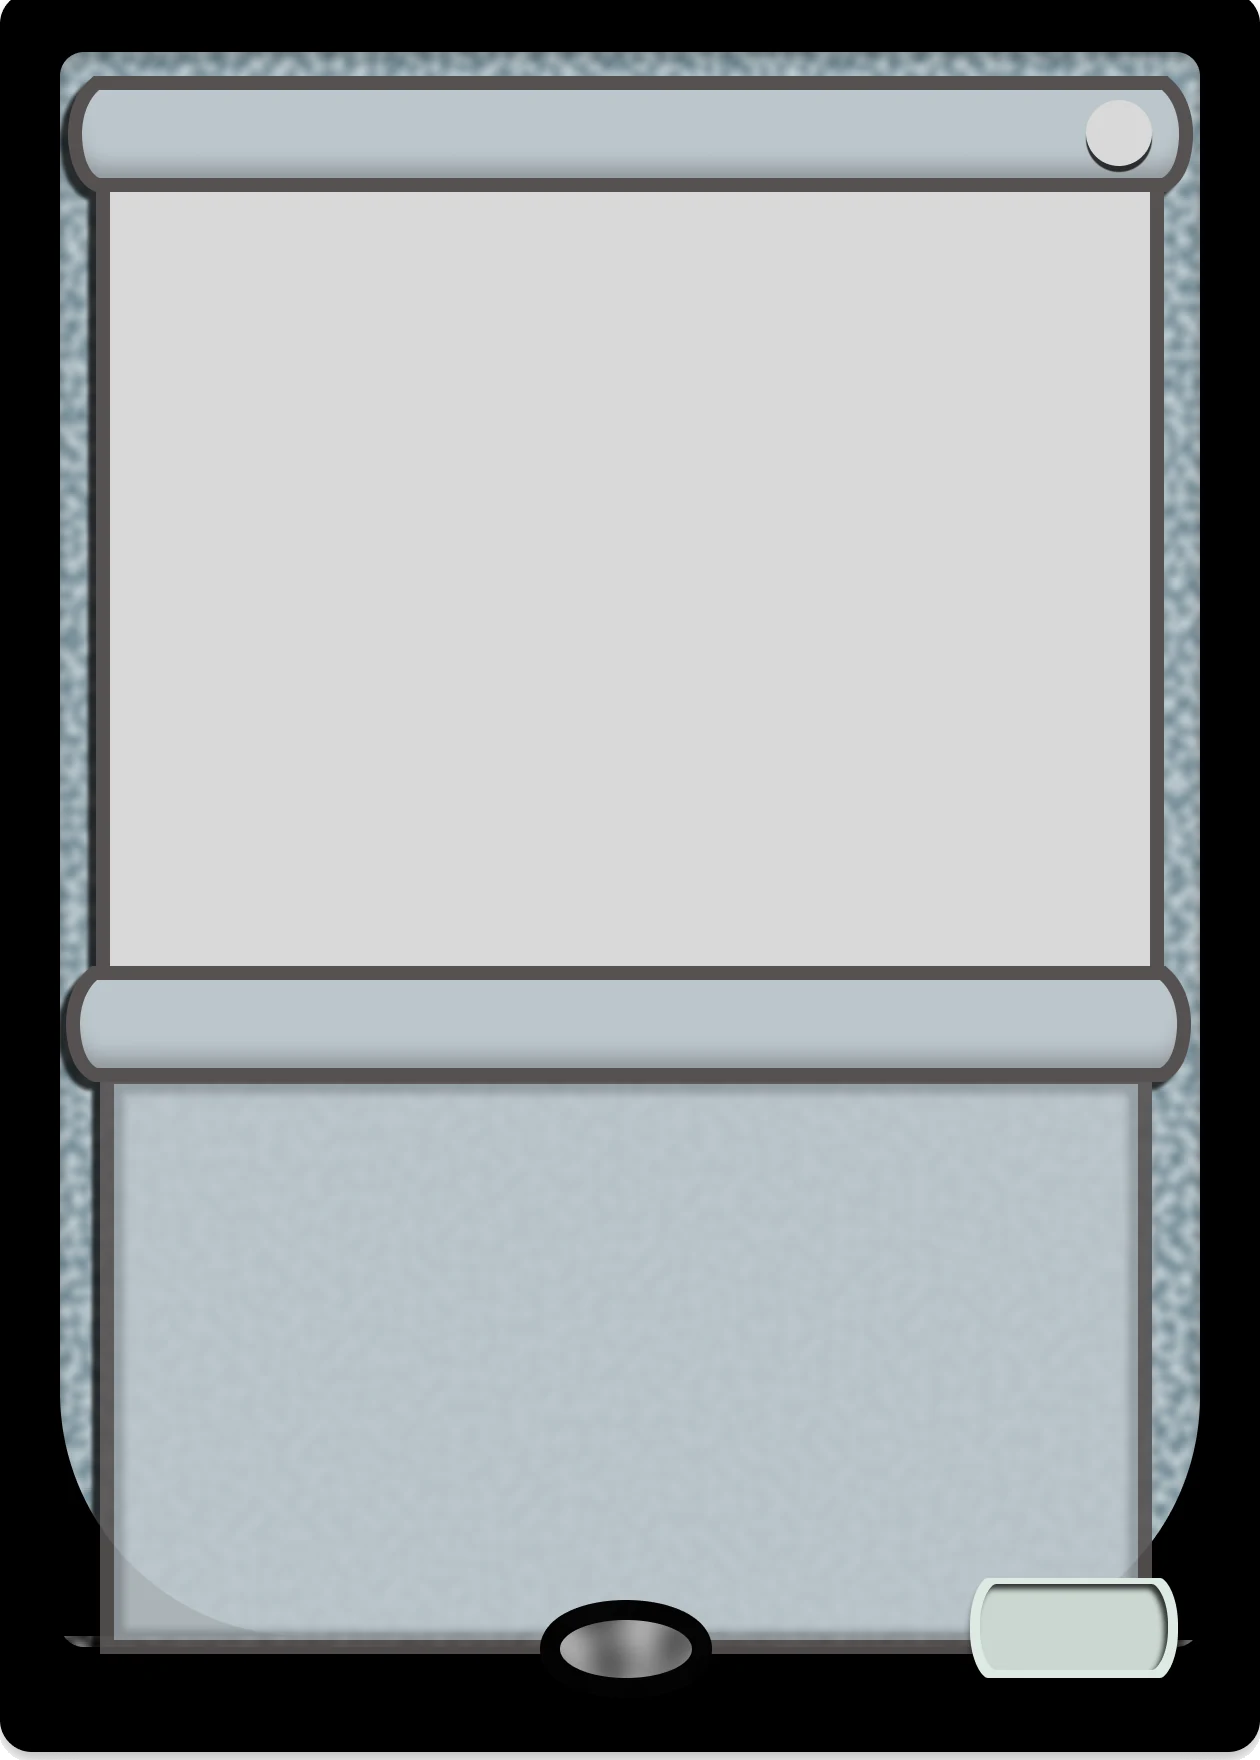
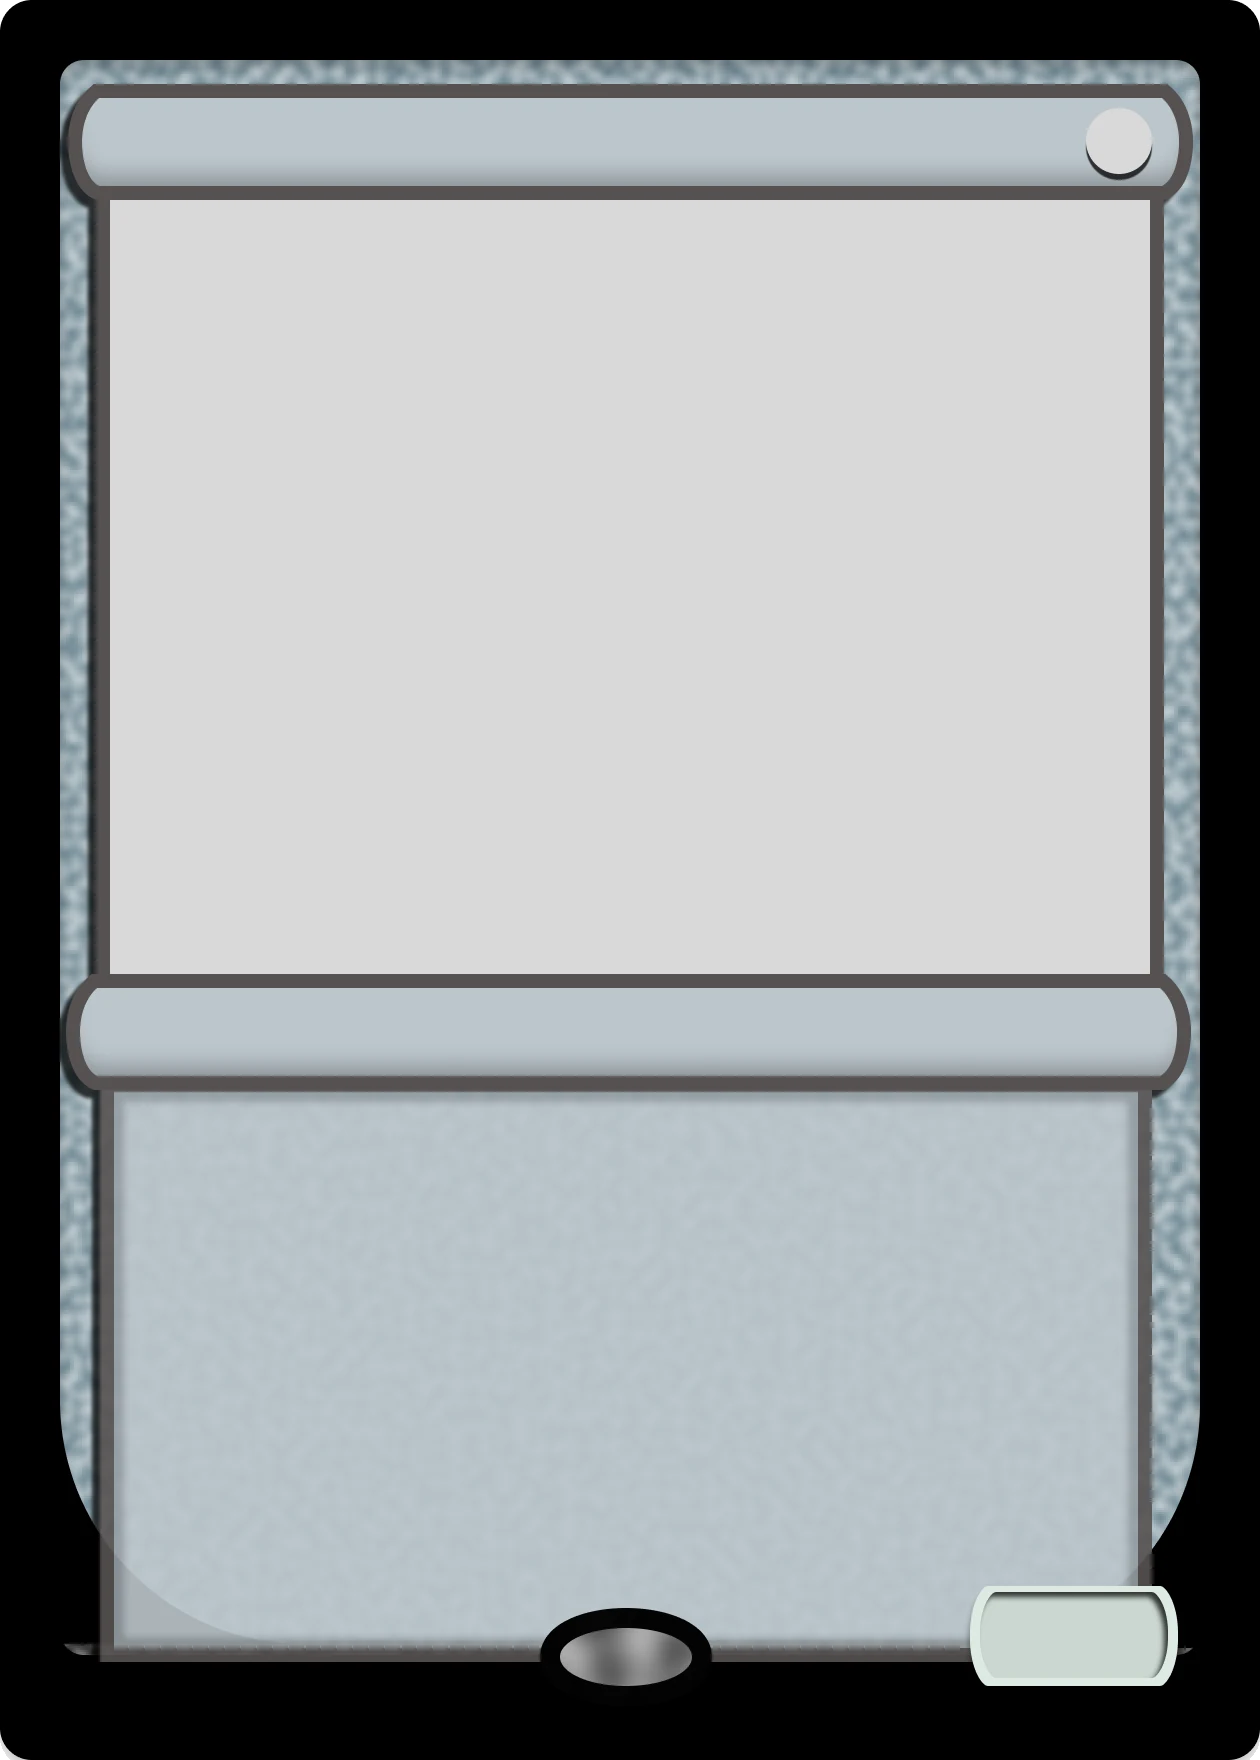
MTG frame: crop the frame image at the exact card bounds (no white edge), smaller ATK
Claude-Session: https://claude.ai/code/session_01P2VDzpyWFsYvAuZKcLX5At

diff --git a/index.html b/index.html
@@ -997,7 +997,7 @@ div.f{display:flex;flex-direction:column;gap:4px;font-weight:700;font-size:13px}
 .card.mtg .c-text .fx{color:#000}
 .card.mtg .c-text .flv{font-family:"Shippori Mincho",serif;font-style:normal;font-weight:400;border-top:none;padding-top:0;font-size:calc(var(--mu)*20*var(--tk,1));line-height:calc(var(--mu)*25.88);letter-spacing:-.1em;color:#000;margin:auto 0 calc(var(--mu)*44)}
 .card.mtg .c-text.ha .flv{margin-bottom:calc(var(--mu)*44)}
-.card.mtg .c-atk{left:calc(var(--mu)*421);top:calc(var(--mu)*240);right:auto;bottom:auto;width:calc(var(--mu)*104);height:calc(var(--mu)*50);padding:0;border:none;border-radius:0;background:none;box-shadow:none;display:grid;place-items:center;font-family:"Shippori Mincho","Shippori Mincho B1",serif;font-weight:700;font-size:calc(var(--mu)*48);line-height:1;color:#000;z-index:4;white-space:nowrap;letter-spacing:0}
+.card.mtg .c-atk{left:calc(var(--mu)*421);top:calc(var(--mu)*240);right:auto;bottom:auto;width:calc(var(--mu)*104);height:calc(var(--mu)*50);padding:0;border:none;border-radius:0;background:none;box-shadow:none;display:grid;place-items:center;font-family:"Shippori Mincho","Shippori Mincho B1",serif;font-weight:700;font-size:calc(var(--mu)*40);line-height:1;color:#000;z-index:4;white-space:nowrap;letter-spacing:-.02em}
 .card.mtg .c-lim{position:absolute;left:calc(var(--mu)*-46);bottom:calc(var(--mu)*-52);color:#8a8f93;font-size:calc(var(--mu)*16);z-index:4}
 .card.mtg .m-gem{display:none}.card .m-gem{display:none}
 .card.mtg[class*="foil-"] .c-name{background:none!important;color:#000!important;-webkit-text-fill-color:currentColor;filter:none}
@@ -1013,7 +1013,7 @@ div.f{display:flex;flex-direction:column;gap:4px;font-weight:700;font-size:13px}
 .card.editor.mtg .c-name input{text-align:left;font-size:calc(var(--mu)*32*var(--nk,1));letter-spacing:-.1em;background:transparent;border:none;width:100%;font-family:inherit;font-weight:700;color:#000;padding:0}
 .card.editor.mtg .c-text{min-height:0;display:flex;flex-direction:column;gap:4px;padding-top:calc(var(--mu)*14)}
 .card.editor.mtg textarea{height:auto;flex:1;background:transparent;font-size:calc(var(--mu)*22);letter-spacing:-.1em;font-family:inherit;color:#000}
-.card.editor.mtg .c-atk{font-size:0}.card.editor.mtg .c-atk input{font-size:calc(var(--mu)*44);width:100%;text-align:center;background:transparent;font-family:"Shippori Mincho",serif;font-weight:700;color:#000}
+.card.editor.mtg .c-atk{font-size:0}.card.editor.mtg .c-atk input{font-size:calc(var(--mu)*40);width:100%;text-align:center;background:transparent;font-family:"Shippori Mincho",serif;font-weight:700;color:#000}
 /* ---- 同梱フォント（fonts/ ・JIS第1・第2水準に減らしたWOFF2）: ロゴたいぷゴシック（M+ライセンス）・源柔ゴシック（SIL OFL 1.1） ---- */
 @font-face{font-family:"LogoTypeGothic";src:url("fonts/LogoTypeGothic.woff2") format("woff2");font-weight:400 900;font-display:swap}
 @font-face{font-family:"GenJyuuGothic";src:url("fonts/GenJyuuGothic-Regular.woff2") format("woff2");font-weight:400 900;font-display:swap}

diff --git a/src/style.css b/src/style.css
@@ -985,7 +985,7 @@ div.f{display:flex;flex-direction:column;gap:4px;font-weight:700;font-size:13px}
 .card.mtg .c-text .fx{color:#000}
 .card.mtg .c-text .flv{font-family:"Shippori Mincho",serif;font-style:normal;font-weight:400;border-top:none;padding-top:0;font-size:calc(var(--mu)*20*var(--tk,1));line-height:calc(var(--mu)*25.88);letter-spacing:-.1em;color:#000;margin:auto 0 calc(var(--mu)*44)}
 .card.mtg .c-text.ha .flv{margin-bottom:calc(var(--mu)*44)}
-.card.mtg .c-atk{left:calc(var(--mu)*421);top:calc(var(--mu)*240);right:auto;bottom:auto;width:calc(var(--mu)*104);height:calc(var(--mu)*50);padding:0;border:none;border-radius:0;background:none;box-shadow:none;display:grid;place-items:center;font-family:"Shippori Mincho","Shippori Mincho B1",serif;font-weight:700;font-size:calc(var(--mu)*48);line-height:1;color:#000;z-index:4;white-space:nowrap;letter-spacing:0}
+.card.mtg .c-atk{left:calc(var(--mu)*421);top:calc(var(--mu)*240);right:auto;bottom:auto;width:calc(var(--mu)*104);height:calc(var(--mu)*50);padding:0;border:none;border-radius:0;background:none;box-shadow:none;display:grid;place-items:center;font-family:"Shippori Mincho","Shippori Mincho B1",serif;font-weight:700;font-size:calc(var(--mu)*40);line-height:1;color:#000;z-index:4;white-space:nowrap;letter-spacing:-.02em}
 .card.mtg .c-lim{position:absolute;left:calc(var(--mu)*-46);bottom:calc(var(--mu)*-52);color:#8a8f93;font-size:calc(var(--mu)*16);z-index:4}
 .card.mtg .m-gem{display:none}.card .m-gem{display:none}
 .card.mtg[class*="foil-"] .c-name{background:none!important;color:#000!important;-webkit-text-fill-color:currentColor;filter:none}
@@ -1001,7 +1001,7 @@ div.f{display:flex;flex-direction:column;gap:4px;font-weight:700;font-size:13px}
 .card.editor.mtg .c-name input{text-align:left;font-size:calc(var(--mu)*32*var(--nk,1));letter-spacing:-.1em;background:transparent;border:none;width:100%;font-family:inherit;font-weight:700;color:#000;padding:0}
 .card.editor.mtg .c-text{min-height:0;display:flex;flex-direction:column;gap:4px;padding-top:calc(var(--mu)*14)}
 .card.editor.mtg textarea{height:auto;flex:1;background:transparent;font-size:calc(var(--mu)*22);letter-spacing:-.1em;font-family:inherit;color:#000}
-.card.editor.mtg .c-atk{font-size:0}.card.editor.mtg .c-atk input{font-size:calc(var(--mu)*44);width:100%;text-align:center;background:transparent;font-family:"Shippori Mincho",serif;font-weight:700;color:#000}
+.card.editor.mtg .c-atk{font-size:0}.card.editor.mtg .c-atk input{font-size:calc(var(--mu)*40);width:100%;text-align:center;background:transparent;font-family:"Shippori Mincho",serif;font-weight:700;color:#000}
 /* ---- 同梱フォント（fonts/ ・JIS第1・第2水準に減らしたWOFF2）: ロゴたいぷゴシック（M+ライセンス）・源柔ゴシック（SIL OFL 1.1） ---- */
 @font-face{font-family:"LogoTypeGothic";src:url("fonts/LogoTypeGothic.woff2") format("woff2");font-weight:400 900;font-display:swap}
 @font-face{font-family:"GenJyuuGothic";src:url("fonts/GenJyuuGothic-Regular.woff2") format("woff2");font-weight:400 900;font-display:swap}
